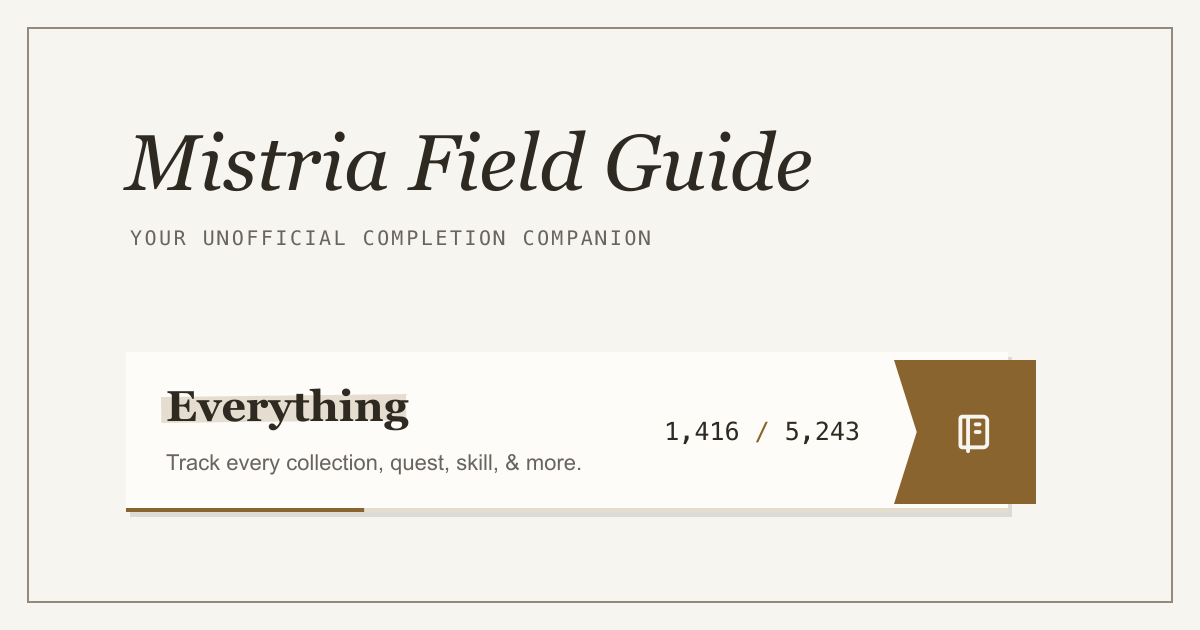
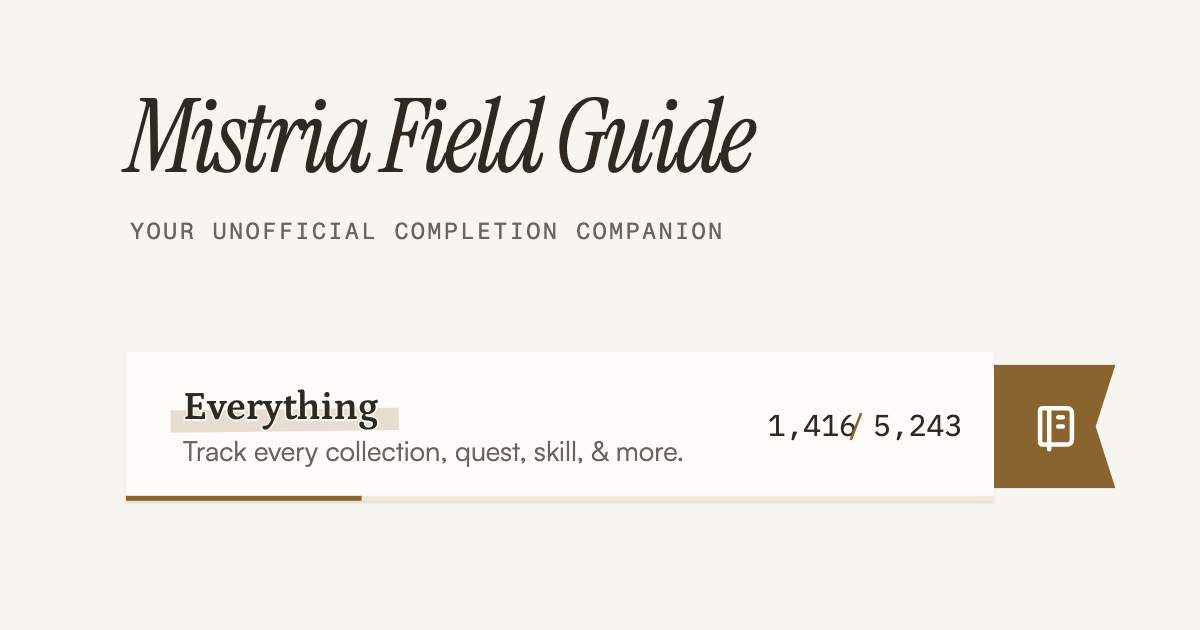
refactor: render the share card from app components

diff --git a/scripts/generate-brand-assets.ts b/scripts/generate-brand-assets.ts
@@ -1,4 +1,5 @@
-import { readFile } from "node:fs/promises";
+import { chromium } from "@playwright/test";
+import { spawn } from "node:child_process";
 import { join } from "node:path";
 import { fileURLToPath } from "node:url";
 import sharp from "sharp";
@@ -8,7 +9,8 @@ import { getAllProgress } from "../src/lib/engine/progress.js";
 
 import type { CompletedState } from "../src/lib/stores/user-state.svelte.js";
 
-const STATIC = fileURLToPath(new URL("../static/", import.meta.url));
+const ROOT = fileURLToPath(new URL("..", import.meta.url));
+const STATIC = join(ROOT, "static");
 
 const COLORS = {
   hairline: "#948a7c",
@@ -48,28 +50,33 @@ async function createIcon(size: number, maskable = false): Promise<Buffer> {
     .toBuffer();
 }
 
-async function createOgImage(): Promise<Buffer> {
-  const [displayFont, dataFont] = await Promise.all([
-    font("instrument-serif-italic.woff2"),
-    font("ibm-plex-mono-latin.woff2"),
-  ]);
-  const stripeX = 126;
-  const stripeY = 352;
-  const stripeWidth = 882;
-  const stripeHeight = 160;
-  const ribbonWidth = 142;
-  const ribbonX = stripeX + stripeWidth - ribbonWidth + 28;
-  const countX = ribbonX - 34;
-
-  return sharp(
-    svg(
-      `<style>@font-face{font-family:Instrument;src:url(data:font/woff2;base64,${displayFont})}@font-face{font-family:Data;src:url(data:font/woff2;base64,${dataFont})}</style><rect width="1200" height="630" fill="${COLORS.paper}"/><rect x="28" y="28" width="1144" height="574" fill="none" stroke="${COLORS.hairline}" stroke-width="2"/><text x="126" y="190" fill="${COLORS.ink}" font-family="Instrument, Georgia, serif" font-size="79" font-style="italic">Mistria Field Guide</text><text x="130" y="245" fill="${COLORS.muted}" font-family="Data, monospace" font-size="20" letter-spacing="2.5">YOUR UNOFFICIAL COMPLETION COMPANION</text><rect x="${stripeX + 4}" y="${stripeY + 5}" width="${stripeWidth}" height="${stripeHeight}" fill="#2e2a2220"/><rect x="${stripeX}" y="${stripeY}" width="${stripeWidth}" height="${stripeHeight}" fill="${COLORS.raised}"/><rect x="161" y="397" width="245" height="26" fill="#8a642e33" transform="rotate(-0.7 161 397)"/><path d="M 0 0 H 100 V 100 H 0 L 16 50 Z" transform="translate(${ribbonX} ${stripeY + 8}) scale(${ribbonWidth / 100} ${(stripeHeight - 16) / 100})" fill="${COLORS.ochre}"/>${notebookIcon(ribbonX + ribbonWidth * 0.4, stripeY + stripeHeight / 2 - 23, 46)}<text x="166" y="421" fill="${COLORS.ink}" font-family="Georgia, serif" font-size="43" font-weight="600">Everything</text><text x="166" y="470" fill="${COLORS.muted}" font-family="Arial, sans-serif" font-size="22">Track every collection, quest, skill, &amp; more.</text><text x="${countX}" y="440" fill="${COLORS.ink}" font-family="Data, monospace" font-size="25" text-anchor="end">${ogProgress.completed.toLocaleString()} <tspan fill="${COLORS.ochre}">/</tspan> ${ogProgress.total.toLocaleString()}</text><rect x="${stripeX}" y="${stripeY + stripeHeight - 4}" width="${stripeWidth}" height="4" fill="#e4ddcf"/><rect x="${stripeX}" y="${stripeY + stripeHeight - 4}" width="${(stripeWidth * ogProgress.percent) / 100}" height="4" fill="${COLORS.ochre}"/>`,
-      1200,
-      630,
-    ),
-  )
-    .png()
-    .toBuffer();
+async function createOgImage(): Promise<void> {
+  const port = 48171;
+  const server = spawn(
+    "pnpm",
+    ["exec", "vite", "dev", "--host", "127.0.0.1", "--port", String(port)],
+    {
+      cwd: ROOT,
+      stdio: "ignore",
+    },
+  );
+  try {
+    for (let attempt = 0; attempt < 50; attempt += 1) {
+      try {
+        await fetch(`http://127.0.0.1:${port}/dev/og-image`);
+        break;
+      } catch {
+        await new Promise((resolve) => setTimeout(resolve, 100));
+      }
+    }
+    const browser = await chromium.launch();
+    const page = await browser.newPage({ viewport: { height: 630, width: 1200 } });
+    await page.goto(`http://127.0.0.1:${port}/dev/og-image`, { waitUntil: "networkidle" });
+    await page.screenshot({ path: join(STATIC, "og-image.png") });
+    await browser.close();
+  } finally {
+    server.kill();
+  }
 }
 
 function emptyCompletedState(): CompletedState {
@@ -98,11 +105,6 @@ function emptyCompletedState(): CompletedState {
   };
 }
 
-async function font(name: string): Promise<string> {
-  const path = new URL(`../static/fonts/${name}`, import.meta.url);
-  return (await readFile(path)).toString("base64");
-}
-
 function grandTotal(): number {
   const progress = getAllProgress({
     availabilityWindows: ["now", "anytime", "later"],
@@ -125,8 +127,8 @@ async function main(): Promise<void> {
     createIcon(512, true).then((image) =>
       sharp(image).toFile(join(STATIC, "icon-maskable-512.png")),
     ),
-    createOgImage().then((image) => sharp(image).toFile(join(STATIC, "og-image.png"))),
   ]);
+  await createOgImage();
   console.log(
     `Generated brand assets with ${ogProgress.total.toLocaleString()} total trackable entries.`,
   );

diff --git a/src/lib/components/og-share-card.svelte b/src/lib/components/og-share-card.svelte
@@ -1,0 +1,79 @@
+<script lang="ts">
+  import CategoryCard from "$lib/components/category-card.svelte";
+
+  import type { CategoryProgress } from "$lib/engine/progress.js";
+
+  let { total }: { total: number } = $props();
+
+  let progress: CategoryProgress = $derived({
+    completed: 1416,
+    filtered: total - 1416,
+    total,
+  });
+</script>
+
+<div class="og-card">
+  <header>
+    <h1>Mistria Field Guide</h1>
+    <p>Your unofficial completion companion</p>
+  </header>
+  <div class="stripe-scale">
+    <CategoryCard
+      key="almanac"
+      {progress}
+      displayCategory={{
+        color: "home-accent",
+        description: "Track every collection, quest, skill, & more.",
+        href: "/",
+        icon: "all",
+        name: "Everything",
+      }}
+    />
+  </div>
+</div>
+
+<style>
+  .og-card {
+    position: fixed;
+    inset: 0;
+    width: 1200px;
+    height: 630px;
+    overflow: hidden;
+    background: var(--paper);
+  }
+
+  header {
+    position: absolute;
+    top: 92px;
+    left: 126px;
+  }
+
+  h1 {
+    margin: 0;
+    color: var(--ink);
+    font-family: var(--font-display);
+    font-size: 102px;
+    font-style: italic;
+    font-weight: 400;
+    line-height: 0.9;
+    letter-spacing: -0.04em;
+  }
+
+  p {
+    margin: 30px 0 0 4px;
+    color: var(--ink-muted);
+    font-family: var(--font-controls);
+    font-size: 23px;
+    letter-spacing: 0.1em;
+    text-transform: uppercase;
+  }
+
+  .stripe-scale {
+    position: absolute;
+    top: 352px;
+    left: 126px;
+    width: 350px;
+    transform: scale(2.48);
+    transform-origin: top left;
+  }
+</style>

diff --git a/src/lib/components/category-card.svelte b/src/lib/components/category-card.svelte
@@ -5,15 +5,27 @@
 
   import type { CategoryProgress } from "$lib/engine/progress.js";
 
+  interface DisplayCategory {
+    color: string;
+    description: string;
+    href: "/";
+    icon: "all" | CategoryKey;
+    name: string;
+  }
+
   let {
+    displayCategory,
     key,
     progress,
   }: {
+    displayCategory?: DisplayCategory;
     key: CategoryKey;
     progress: CategoryProgress;
   } = $props();
 
-  const { color, description, href, name } = $derived(categoryForKey(key));
+  const { color, description, href, icon, name } = $derived(
+    displayCategory ?? { ...categoryForKey(key), icon: key },
+  );
 
   // Show available count when filtering is active (filtered < total - completed)
   let displayTotal = $derived(progress.completed + progress.filtered);
@@ -35,12 +47,13 @@
   </span>
 
   <span class="category-count" aria-hidden="true">
-    <span>{progress.completed}</span><span class="category-slash">/</span><span>{displayTotal}</span
+    <span>{progress.completed.toLocaleString()}</span><span class="category-slash">/</span><span
+      >{displayTotal.toLocaleString()}</span
     >
   </span>
 
   <span class="category-ribbon" data-category-ribbon aria-hidden="true">
-    <Icon.Category category={key} class="category-icon" />
+    <Icon.Category category={icon} class="category-icon" />
   </span>
   <span class="paper-edge-mask" aria-hidden="true"></span>
   <span class="category-progress" aria-hidden="true"><i></i></span>

diff --git a/src/lib/components/icon/icon-maps.ts b/src/lib/components/icon/icon-maps.ts
@@ -27,6 +27,7 @@ import {
   IconLeaf,
   IconLock,
   IconMail,
+  IconNotebook,
   IconOctagon,
   IconPaw,
   IconPick,
@@ -38,7 +39,6 @@ import {
   IconSnowflake,
   IconSparkles,
   IconSpiral,
-  IconStack2,
   IconStar,
   IconSun,
   IconSunLow,
@@ -235,7 +235,7 @@ export function weatherIcon(weather: Weather, season: Season): Icon {
 // ── Category ────────────────────────────────────────────────────────────────
 
 export const CATEGORY_ICON: Record<"all" | "complete" | CategoryKey, Icon> = {
-  all: IconStack2,
+  all: IconNotebook,
   almanac: IconBook2,
   animals: IconPaw,
   complete: IconTrophy,

diff --git a/src/routes/+layout.svelte b/src/routes/+layout.svelte
@@ -36,7 +36,8 @@
     page.url.pathname !== "/data" &&
       page.url.pathname !== "/about" &&
       page.url.pathname !== "/settings" &&
-      page.url.pathname !== "/privacy",
+      page.url.pathname !== "/privacy" &&
+      page.url.pathname !== "/dev/og-image",
   );
   let metadata = $derived(page.status >= 400 ? errorPageMetadata(page.status) : page.data.metadata);
   let overlayActive = $state(false);

diff --git a/src/routes/dev/og-image/+page.ts b/src/routes/dev/og-image/+page.ts
@@ -1,0 +1,9 @@
+import type { PageLoad } from "./$types.js";
+
+export const load: PageLoad = () => ({
+  metadata: {
+    description: "Generate the Mistria Field Guide share card during development.",
+    robots: "noindex, nofollow",
+    title: "Share card",
+  },
+});

diff --git a/src/routes/dev/og-image/+page.svelte b/src/routes/dev/og-image/+page.svelte
@@ -1,0 +1,5 @@
+<script lang="ts">
+  import OgShareCard from "$lib/components/og-share-card.svelte";
+</script>
+
+<OgShareCard total={5243} />
